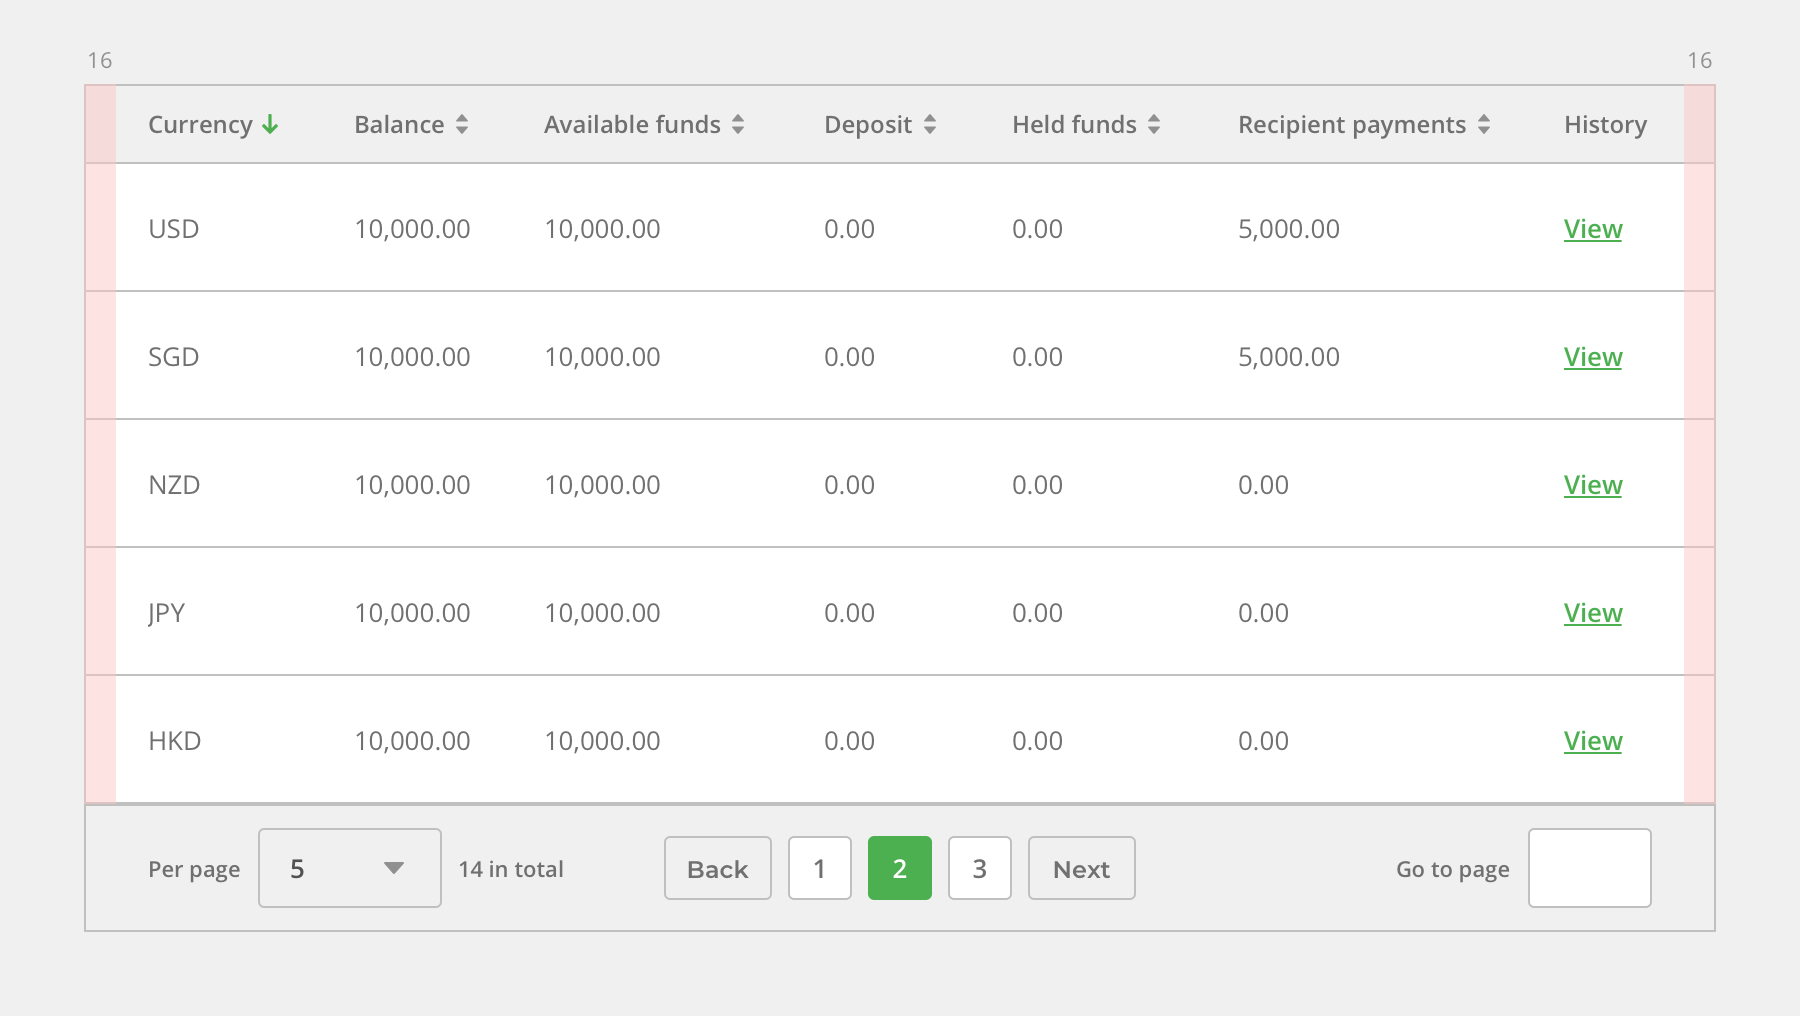
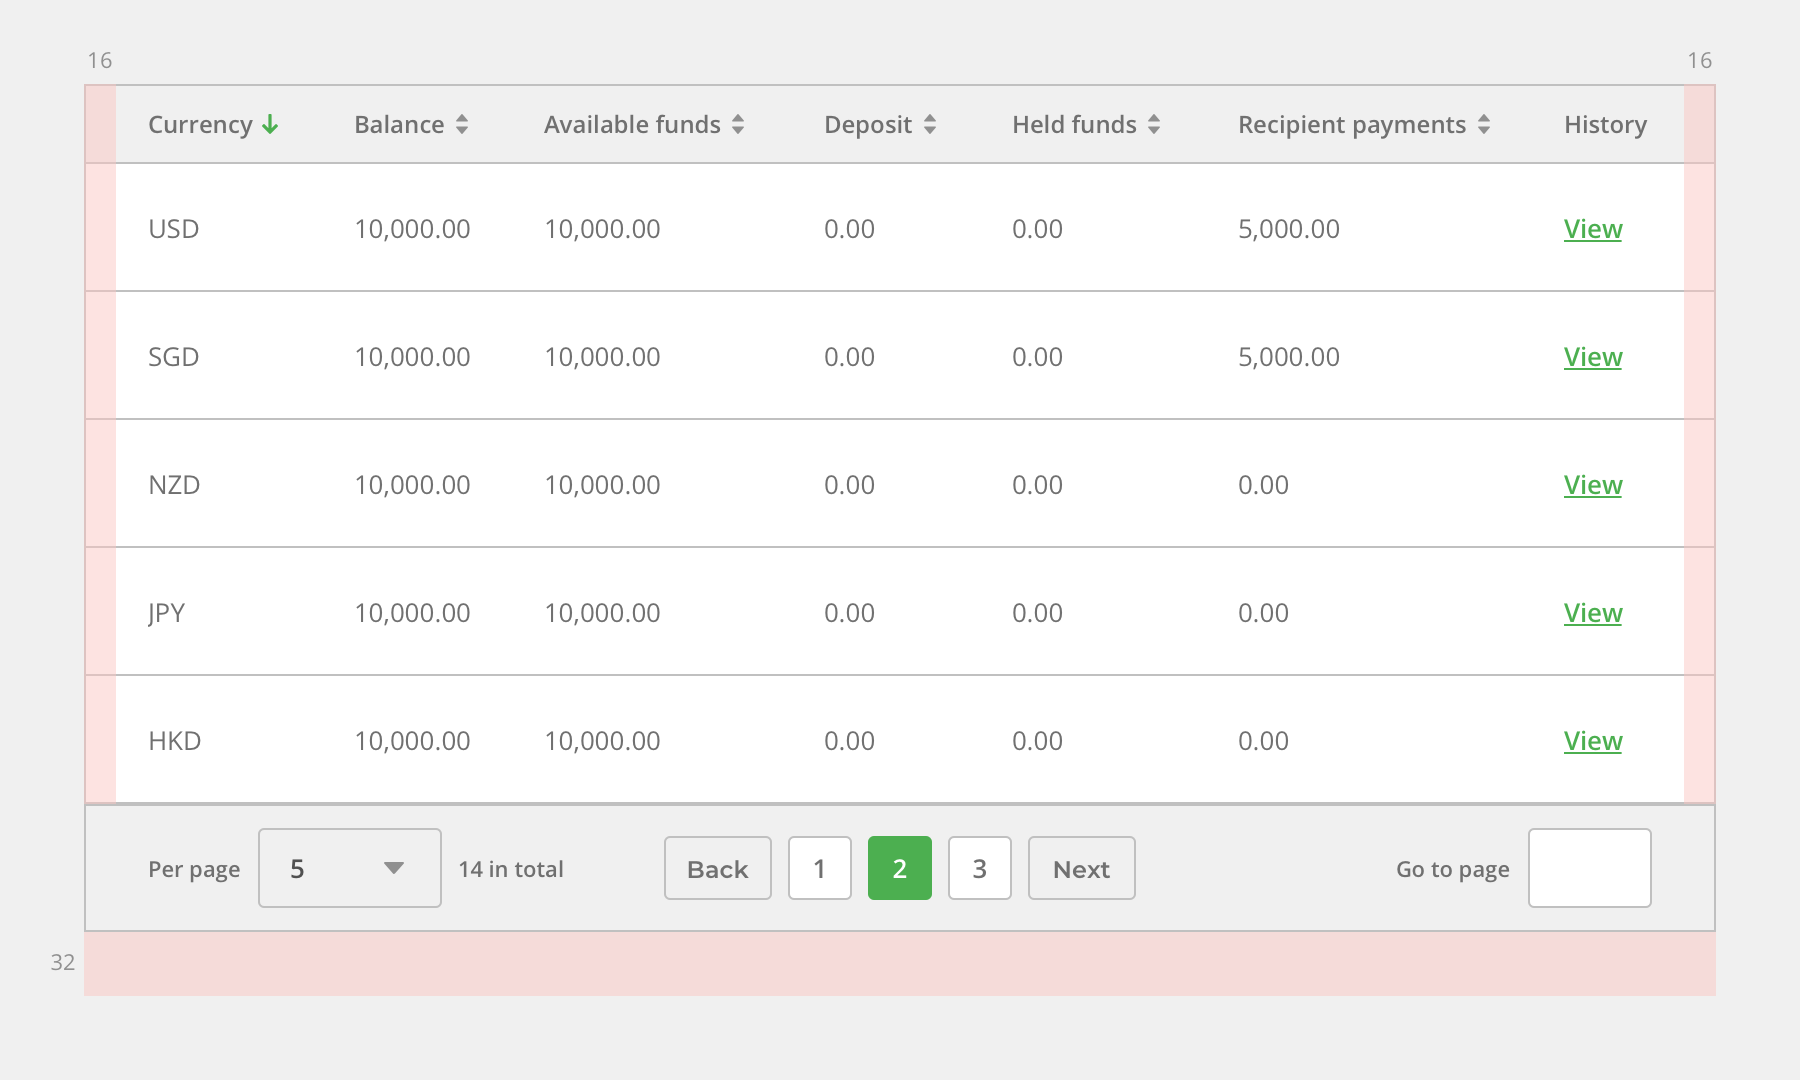
Updates organisms/data-tables.md
Auto commit by GitBook Editor

diff --git a/organisms/data-tables.md b/organisms/data-tables.md
@@ -8,6 +8,7 @@ Besides Forms, Data tables are most frequently used organisms in the Back Office
 
 * Tables use 100% width size of the content section.
 * The table container has a left and right padding of 16px.
+* The table section has a margin bottom of 32px.
 
 ![](/assets/organisms/data-tables-spacing.png)
 
@@ -16,6 +17,7 @@ Besides Forms, Data tables are most frequently used organisms in the Back Office
 width: 100%;
 padding-left: 16px;
 padding-right: 16px;
+margin-bottom: 32px;
 ```
 
 ---
